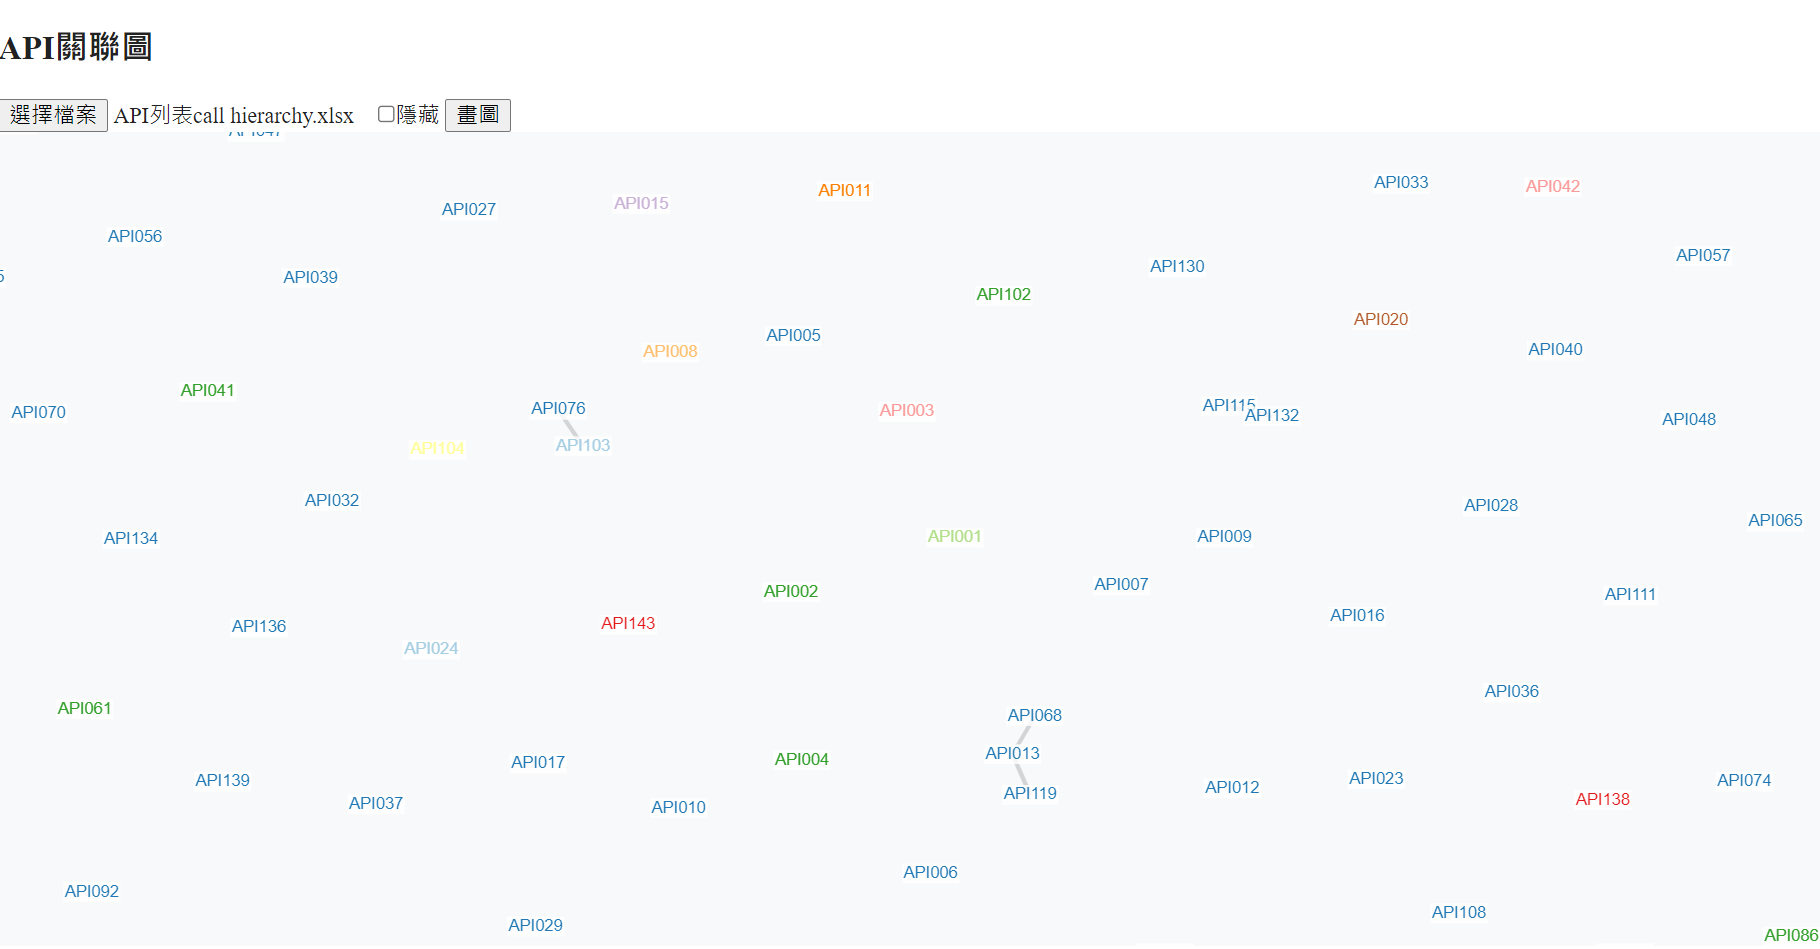
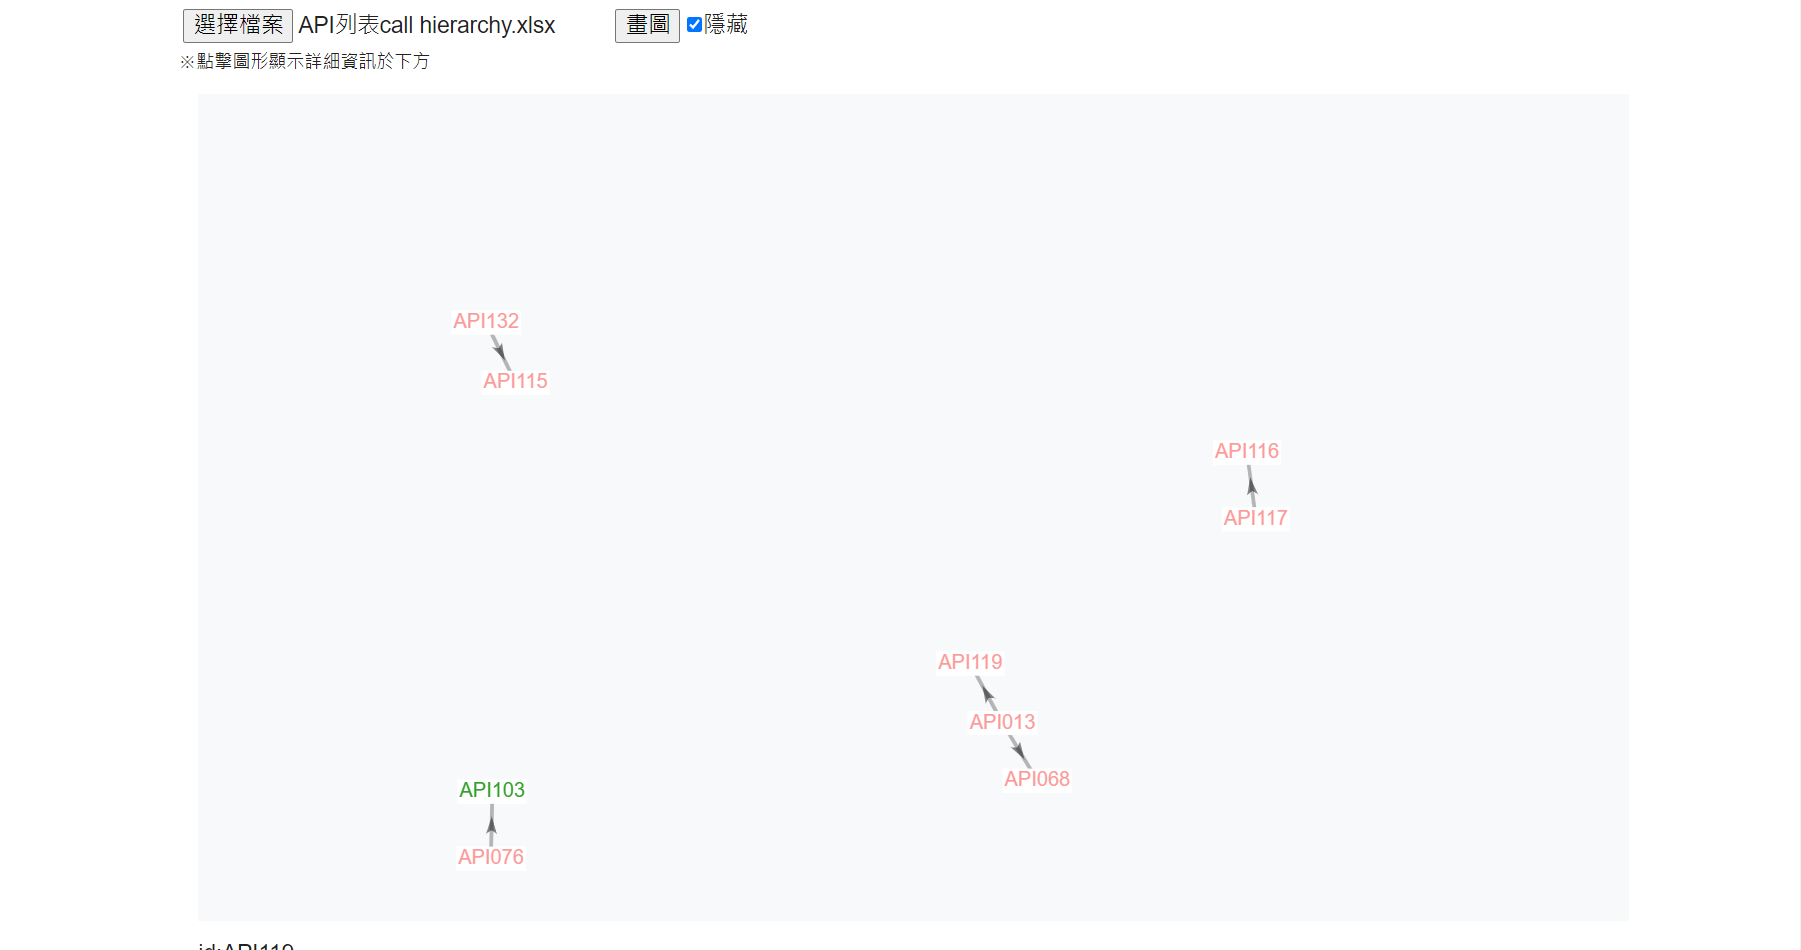
調整使用方式

diff --git a/js/relation-graph.js b/js/relation-graph.js
@@ -23,16 +23,16 @@ function draw(graphObj, visibility) {
                 div.textContent = `${key}:${value}`;
             }
         })
-        .linkWidth(3)
         .nodeAutoColorBy('controller')
+        .nodeLabel('memo')
         .nodeCanvasObject((node, ctx, globalScale) => {
             const label = node.id;
-            const fontSize = 12/globalScale;
+            const fontSize = 16/globalScale;
             ctx.font = `${fontSize}px Sans-Serif`;
             const textWidth = ctx.measureText(label).width;
             const bckgDimensions = [textWidth, fontSize].map(n => n + fontSize * 0.2); // some padding
 
-            ctx.fillStyle = 'rgba(255, 255, 255, 0.8)';
+            ctx.fillStyle = 'rgba(255, 255, 255, 1)';
             ctx.fillRect(node.x - bckgDimensions[0] / 2, node.y - bckgDimensions[1] / 2, ...bckgDimensions);
 
             ctx.textAlign = 'center';
@@ -46,7 +46,9 @@ function draw(graphObj, visibility) {
             ctx.fillStyle = color;
             const bckgDimensions = node.__bckgDimensions;
             bckgDimensions && ctx.fillRect(node.x - bckgDimensions[0] / 2, node.y - bckgDimensions[1] / 2, ...bckgDimensions);
-        });
+        })
+        .linkWidth(3)
+        .linkDirectionalArrowLength(8);
 
     adjustGraphSize(Graph)
     window.addEventListener('resize', () => {

diff --git a/index.html b/index.html
@@ -17,13 +17,14 @@
 
 <body>
   <div>API關聯圖</div>
-  <div><input type="file" id="file-selector"/></div>
   <div>
+    <input type="file" id="file-selector"/>
     <button onclick="upload();">畫圖</button>
     <label for="visibility">
       <input type="checkbox" id="visibility">隱藏
     </label>
   </div>
+  <small>※點擊圖形顯示詳細資訊於下方</small>
 
   <div class="wrapper">
     <div id="container">
@@ -51,6 +52,7 @@
       })
     } catch (ex) {
       alert('未選擇檔案');
+      fileSelector.click();
     }
   }
 
